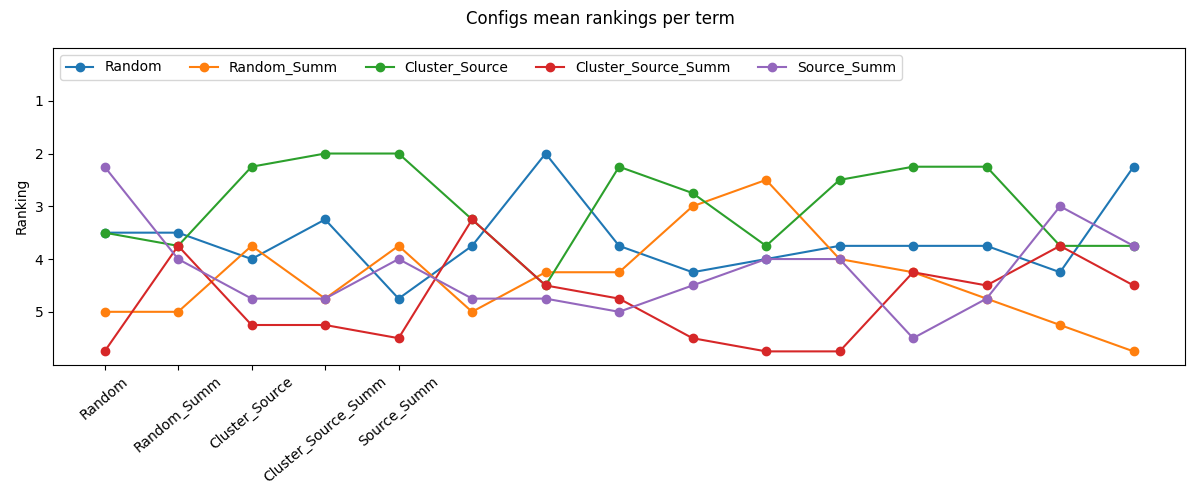
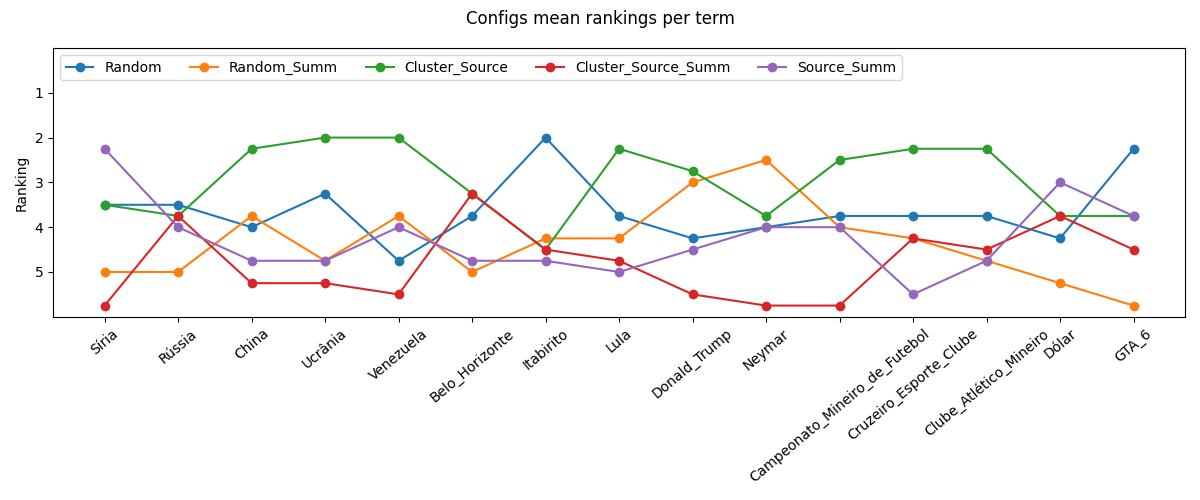
fix: fix xlabels

diff --git a/src/scripts/plot_results.py b/src/scripts/plot_results.py
@@ -101,7 +101,7 @@ def save_mean_rankings_plot(data_dir: str, target_plot_path: str):
 
     _define_plot_configs(
         suptitle="Configs mean rankings per term",
-        xlabels=mean_rankings_df.columns.to_list(),
+        xlabels=mean_rankings_df.index.to_list(),
     )
 
     plt.savefig(pathlib.Path(target_plot_path))
